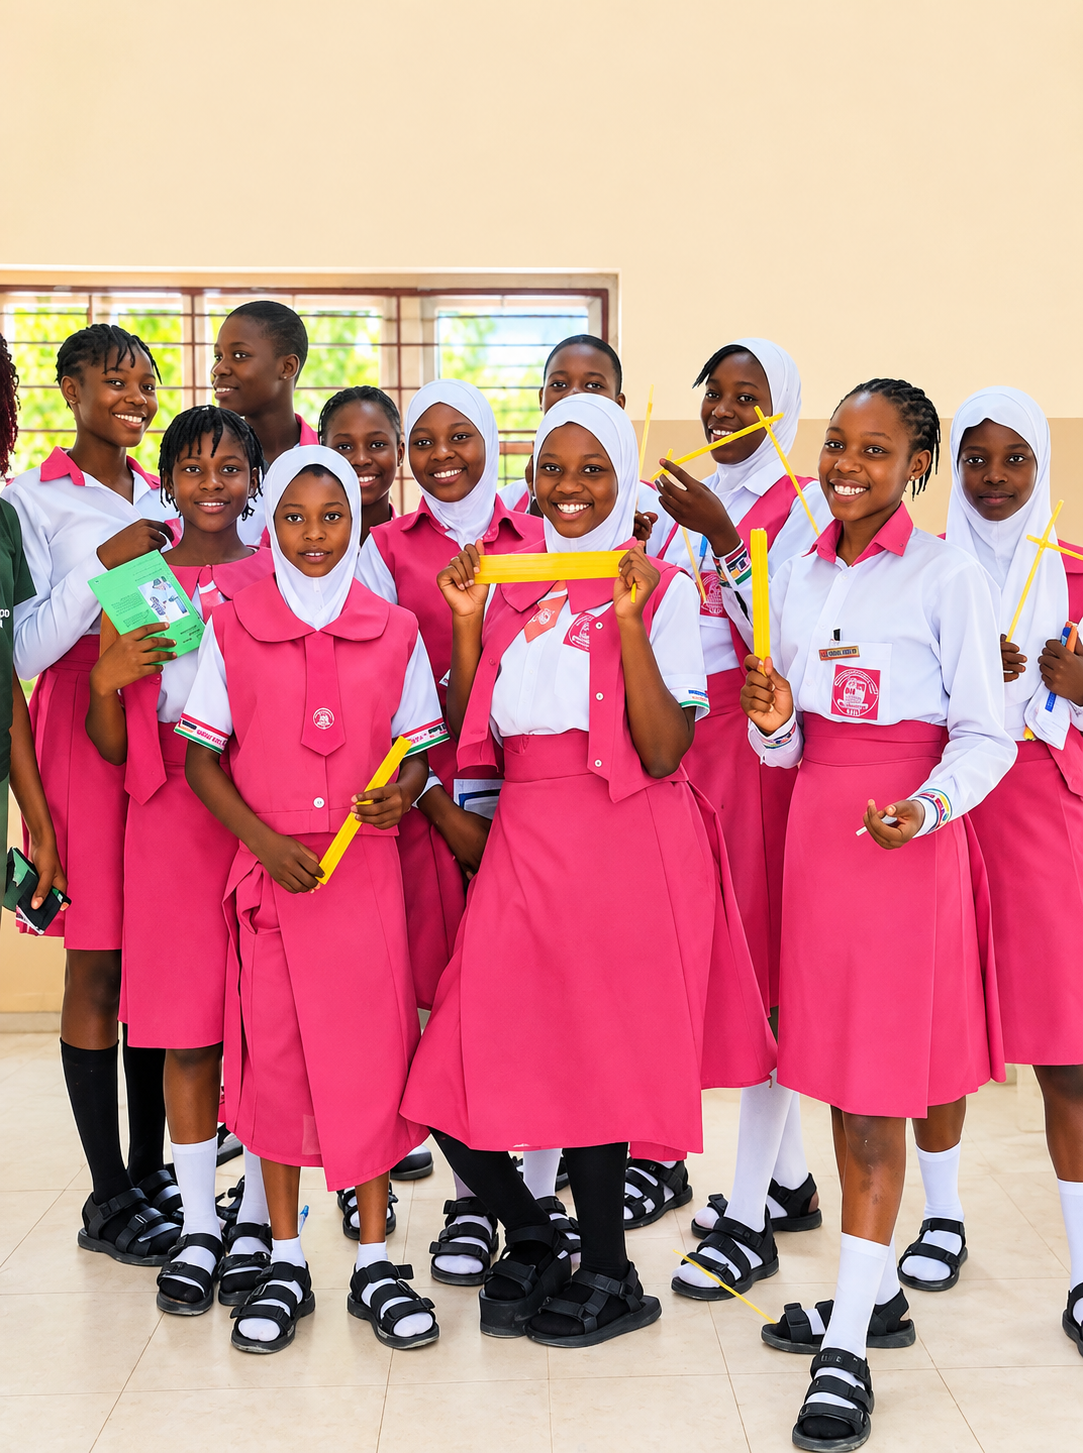
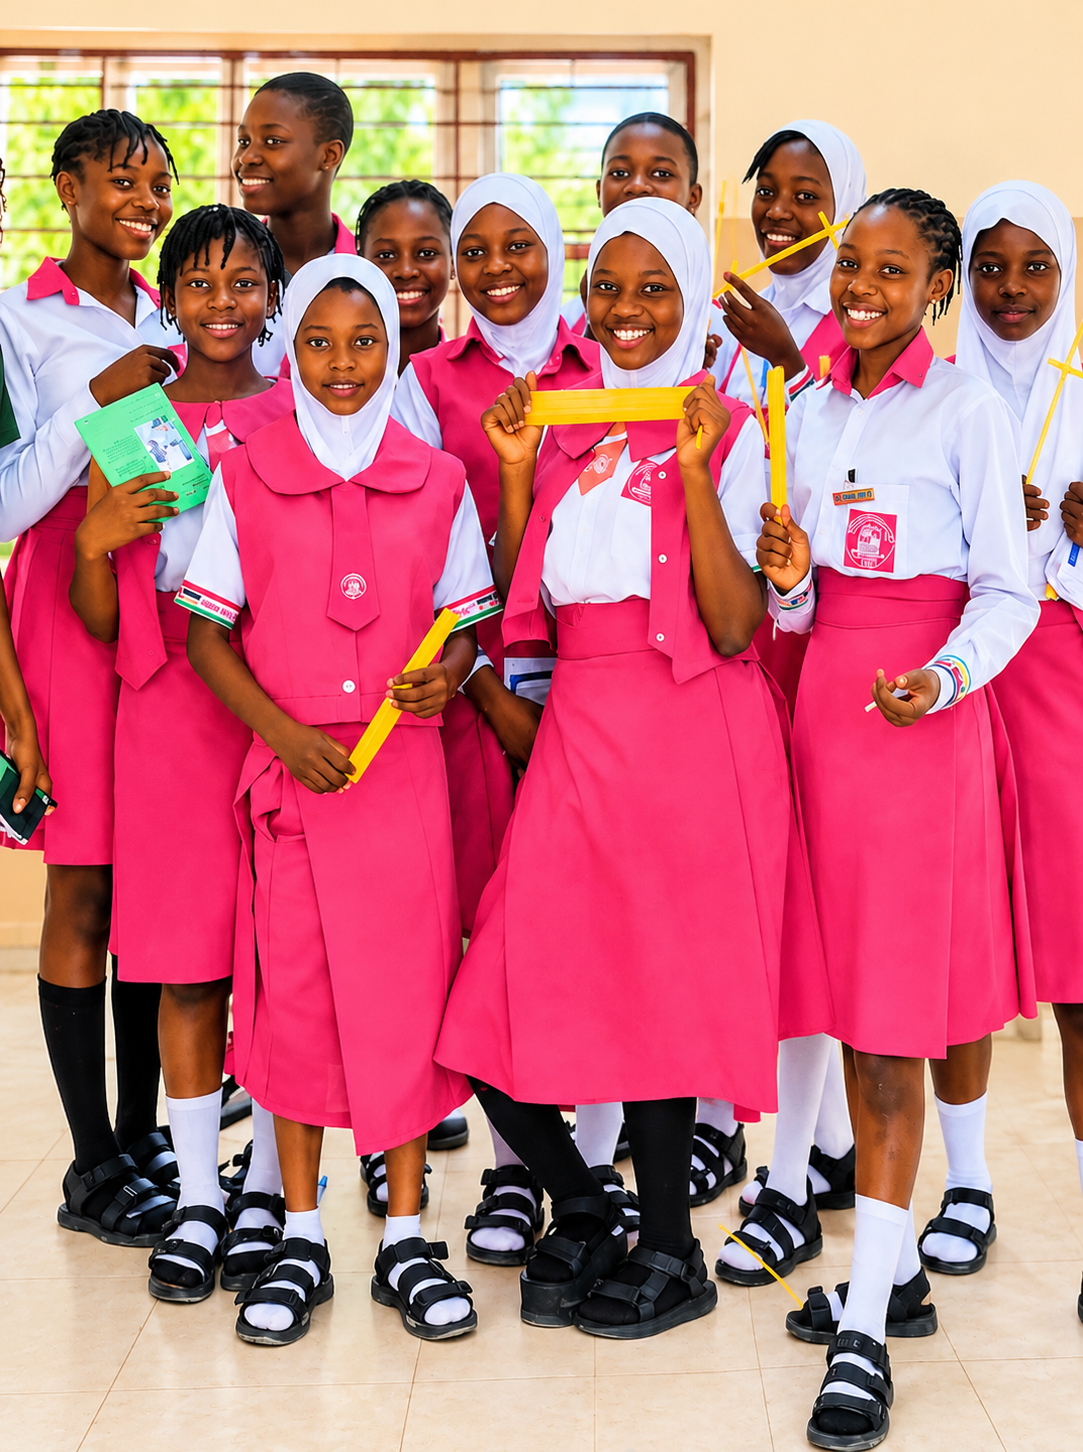
improved the design of the about us page

diff --git a/index.html b/index.html
@@ -71,7 +71,7 @@
       </div>
 
       <!-- Why We Exist -->
-      <div class="section-block bg-cream">
+      <div class="section-block bg-cream why-exist-section">
         <div class="container why-exist-grid">
           <div class="why-exist-copy">
             <h2>Why We Exist</h2>
@@ -168,7 +168,7 @@
           <a href="https://www.instagram.com/theofficialnarf/" target="_blank" rel="noopener noreferrer" class="banner-social-btn" aria-label="Instagram">
             <svg width="18" height="18" viewBox="0 0 24 24" fill="none" stroke="currentColor" stroke-width="2"><rect x="2" y="2" width="20" height="20" rx="5" ry="5"/><path d="M16 11.37A4 4 0 1 1 12.63 8 4 4 0 0 1 16 11.37z"/><line x1="17.5" y1="6.5" x2="17.51" y2="6.5"/></svg>
           </a>
-          <a href="https://facebook.com" target="_blank" rel="noopener noreferrer" class="banner-social-btn" aria-label="Facebook">
+          <a href="https://www.facebook.com/share/1BWztz8DpE/?mibextid=wwXIfr" target="_blank" rel="noopener noreferrer" class="banner-social-btn" aria-label="Facebook">
             <svg width="18" height="18" viewBox="0 0 24 24" fill="none" stroke="currentColor" stroke-width="2"><path d="M18 2h-3a5 5 0 0 0-5 5v3H7v4h3v8h4v-8h3l1-4h-4V7a1 1 0 0 1 1-1h3z"/></svg>
           </a>
         </div>
@@ -202,21 +202,26 @@
     <!-- ==================== 2. ABOUT US ==================== -->
     <section id="view-about" class="page-view">
       <div class="section-block">
-        <div class="container" style="max-width: 820px;">
-          <h1>About Us</h1>
+        <img class="about-hero-image" src="./images/IMG-3.JPG" alt="NARF community programme">
+        <div class="container about-content">
+          <header class="about-heading">
+            <!-- <p class="about-eyebrow">WHO WE ARE</p> -->
+            <h1>About Us</h1>
+            <p>Building opportunity, confidence and sustainable futures for young people.</p>
+          </header>
 
-          <div class="about-block">
+          <div class="about-block about-mission">
             <h2>MISSION</h2>
             <p class="body-text">Our mission is to break the cycle of poverty by empowering young people aged 15–35 in underserved communities through education, skills development, employability initiatives, entrepreneurship and mentorship</p>
           </div>
 
-          <div class="about-block">
+          <div class="about-block about-vision">
             <h2>VISION</h2>
             <p class="body-text">We envision a world where every young person has equal access to the opportunities, resources and support needed to reach their full potential.</p>
             <p class="body-text">We aspire to build inclusive and sustainable communities where young people are educated, empowered, economically independent and equipped to become tomorrow's leaders, innovators and change-makers.</p>
           </div>
 
-          <div class="about-block">
+          <div class="about-block about-story">
             <h2>OUR STORY</h2>
             <p class="body-text">The Ngozi Arthur Richard Foundation (NARF) was established out of a belief that talent and potential exist in every community, but opportunity is not always equally accessible.</p>
             <p class="body-text">Across many underserved communities, young people face barriers that limit their access to quality education, employment, entrepreneurship and personal development. These challenges can prevent talented individuals from achieving their aspirations and contributing fully to society.</p>
@@ -224,7 +229,7 @@
             <p class="body-text">NARF exists to help bridge this opportunity gap: through education, employability programmes, entrepreneurship development, scholarships, mentorship and community outreach, we aim to equip young people with the knowledge, confidence, skills and networks they need to build better futures.</p>
           </div>
 
-          <div class="about-block">
+          <div class="about-block about-leadership">
             <h2>OUR LEADERSHIP PRIORITIES</h2>
             <ul class="priorities-list">
               <li><strong>Integrity and accountability:</strong> Acting responsibly and ensuring that our work reflects our values.</li>
@@ -237,7 +242,7 @@
 
           <div class="photo-banner">
             <img
-              src="https://images.unsplash.com/photo-1488521787991-ed7bbaae773c?auto=format&fit=crop&w=1400&q=80"
+              src="./images/IMG-4.PNG"
               alt="Students in school uniforms during an educational outreach"
             />
           </div>
@@ -418,10 +423,10 @@
         <p>Address: Ikogba Street Alahun Ozumba, Lagos</p>
         <p>Charity ID- 7380932</p>
         <div class="banner-socials" style="justify-content: flex-start; margin-top: 0.65rem;">
-          <a href="https://instagram.com" target="_blank" rel="noopener noreferrer" class="banner-social-btn" aria-label="Instagram">
+          <a href="https://www.instagram.com/theofficialnarf/" target="_blank" rel="noopener noreferrer" class="banner-social-btn" aria-label="Instagram">
             <svg width="16" height="16" viewBox="0 0 24 24" fill="none" stroke="currentColor" stroke-width="2"><rect x="2" y="2" width="20" height="20" rx="5" ry="5"/><path d="M16 11.37A4 4 0 1 1 12.63 8 4 4 0 0 1 16 11.37z"/><line x1="17.5" y1="6.5" x2="17.51" y2="6.5"/></svg>
           </a>
-          <a href="https://facebook.com" target="_blank" rel="noopener noreferrer" class="banner-social-btn" aria-label="Facebook">
+          <a href="https://www.facebook.com/share/1BWztz8DpE/?mibextid=wwXIfr" target="_blank" rel="noopener noreferrer" class="banner-social-btn" aria-label="Facebook">
             <svg width="16" height="16" viewBox="0 0 24 24" fill="none" stroke="currentColor" stroke-width="2"><path d="M18 2h-3a5 5 0 0 0-5 5v3H7v4h3v8h4v-8h3l1-4h-4V7a1 1 0 0 1 1-1h3z"/></svg>
           </a>
         </div>

diff --git a/styles.css b/styles.css
@@ -685,7 +685,94 @@ h3 {
    About, Work, Impact & News
    ========================================================================== */
 .about-block {
-  margin-bottom: 2.25rem;
+  margin-bottom: 1.5rem;
+  padding: 2rem;
+  background: var(--color-white);
+  border: 1px solid var(--color-border);
+  border-top: 4px solid var(--color-green);
+  border-radius: var(--radius-md);
+  box-shadow: var(--shadow-sm);
+}
+
+.about-block:nth-of-type(2) {
+  background: linear-gradient(135deg, var(--color-white), var(--color-green-light));
+  border-top-color: var(--color-leaf);
+}
+
+.about-block:nth-of-type(3) {
+  background: linear-gradient(135deg, var(--color-white), #F2F7F4);
+  border-top-color: var(--color-teal);
+}
+
+.about-block:last-of-type {
+  background: linear-gradient(135deg, var(--color-green-light), var(--color-white));
+  border-top-color: var(--color-green-dark);
+}
+
+.about-heading {
+  max-width: 680px;
+  margin: 0 auto 2.5rem;
+  text-align: center;
+}
+
+.about-heading h1 {
+  margin-bottom: 0.65rem;
+  font-family: var(--font-serif);
+  font-size: clamp(1.8rem, 3.8vw, 2.6rem);
+  line-height: 1.08;
+  color: var(--color-teal);
+  font-weight: 500;
+}
+
+.about-heading > p:last-child {
+  color: var(--color-muted);
+  font-size: 1.05rem;
+}
+
+.about-eyebrow {
+  margin-bottom: 0.55rem;
+  color: var(--color-green-dark);
+  background: var(--color-green-light);
+  display: inline-block;
+  padding: 0.45rem 0.85rem;
+  border-radius: 999px;
+  font-size: 0.78rem;
+  font-weight: 800;
+  letter-spacing: 0.16em;
+}
+
+#view-about > .section-block {
+  padding-top: 0;
+}
+
+.about-content {
+  max-width: 1180px;
+  display: grid;
+  grid-template-columns: repeat(2, minmax(0, 1fr));
+  gap: 1.5rem;
+}
+
+.about-leadership {
+  margin-bottom: 0;
+}
+
+.about-heading,
+#view-about .photo-banner,
+.about-story,
+.about-leadership {
+  grid-column: 1 / -1;
+}
+
+.about-hero-image {
+  display: block;
+  width: 100vw;
+  max-width: none;
+  height: clamp(500px, 76vh, 720px);
+  max-height: 720px;
+  margin: 0 0 2.5rem;
+  margin-left: calc(50% - 50vw);
+  object-fit: cover;
+  object-position: center top;
 }
 
 .about-block h2 {
@@ -695,19 +782,42 @@ h3 {
   letter-spacing: 0.06em;
   text-transform: uppercase;
   color: var(--color-teal);
-  margin-bottom: 0.65rem;
+  margin-bottom: 0.85rem;
+}
+
+.about-block .body-text {
+  line-height: 1.78;
 }
 
 .priorities-list {
   display: grid;
-  gap: 0.9rem;
+  grid-template-columns: repeat(2, minmax(0, 1fr));
+  gap: 0.75rem;
 }
 
 .priorities-list li {
   background-color: var(--color-cream);
   border-left: 4px solid var(--color-green);
-  padding: 1rem 1.25rem;
+  padding: 1.1rem 1.25rem;
   border-radius: var(--radius-sm);
+  line-height: 1.55;
+}
+
+#view-about .photo-banner {
+  width: 100vw;
+  margin: 0;
+  margin-left: calc(50% - 50vw);
+  border-radius: 0;
+  box-shadow: none;
+  overflow: visible;
+}
+
+#view-about .photo-banner img {
+  width: 100vw;
+  height: clamp(760px, 96vh, 1050px);
+  max-height: 1050px;
+  object-fit: cover;
+  object-position: center top;
 }
 
 .work-hero-box {
@@ -872,9 +982,61 @@ h3 {
 }
 
 @media (max-width: 820px) {
+  #view-about .photo-banner {
+    border-radius: 0;
+    margin-top: 0;
+  }
+
+  #view-about .photo-banner img {
+    height: clamp(620px, 94vh, 840px);
+    max-height: 840px;
+    object-position: center top;
+  }
+
+  .about-content {
+    grid-template-columns: 1fr;
+    row-gap: 0;
+  }
+
+  .about-heading,
+  .about-story,
+  .about-leadership,
+  #view-about .photo-banner {
+    grid-column: 1;
+  }
+
+  .about-heading {
+    margin-bottom: 1.75rem;
+  }
+
+  .about-heading h1 {
+    font-size: 1.85rem;
+    font-weight: 500;
+  }
+
+  .about-block {
+    padding: 1.35rem;
+  }
+
+  .priorities-list {
+    grid-template-columns: 1fr;
+  }
+
+  .about-hero-image {
+    width: 100vw;
+    height: 360px;
+    min-height: 360px;
+    max-height: 360px;
+    margin-bottom: 1.5rem;
+    margin-left: calc(50% - 50vw);
+    object-fit: cover;
+    object-position: center;
+  }
+
   .section-block {
     padding: 1.75rem 0;
   }
+
 
   .connect-grid {
     grid-template-columns: 1fr;
@@ -919,10 +1081,21 @@ h3 {
     max-width: none;
   }
 
+  .why-exist-image {
+    border-radius: 0;
+    overflow: visible;
+    box-shadow: none;
+    background: transparent;
+    width: 100%;
+  }
+
   .why-exist-image img {
+    width: 100%;
     height: auto;
-    max-height: 420px;
-    object-fit: contain;
+    max-height: none;
+    max-width: 100%;
+    object-fit: cover;
+    background: transparent;
   }
 
   .hero-card {
